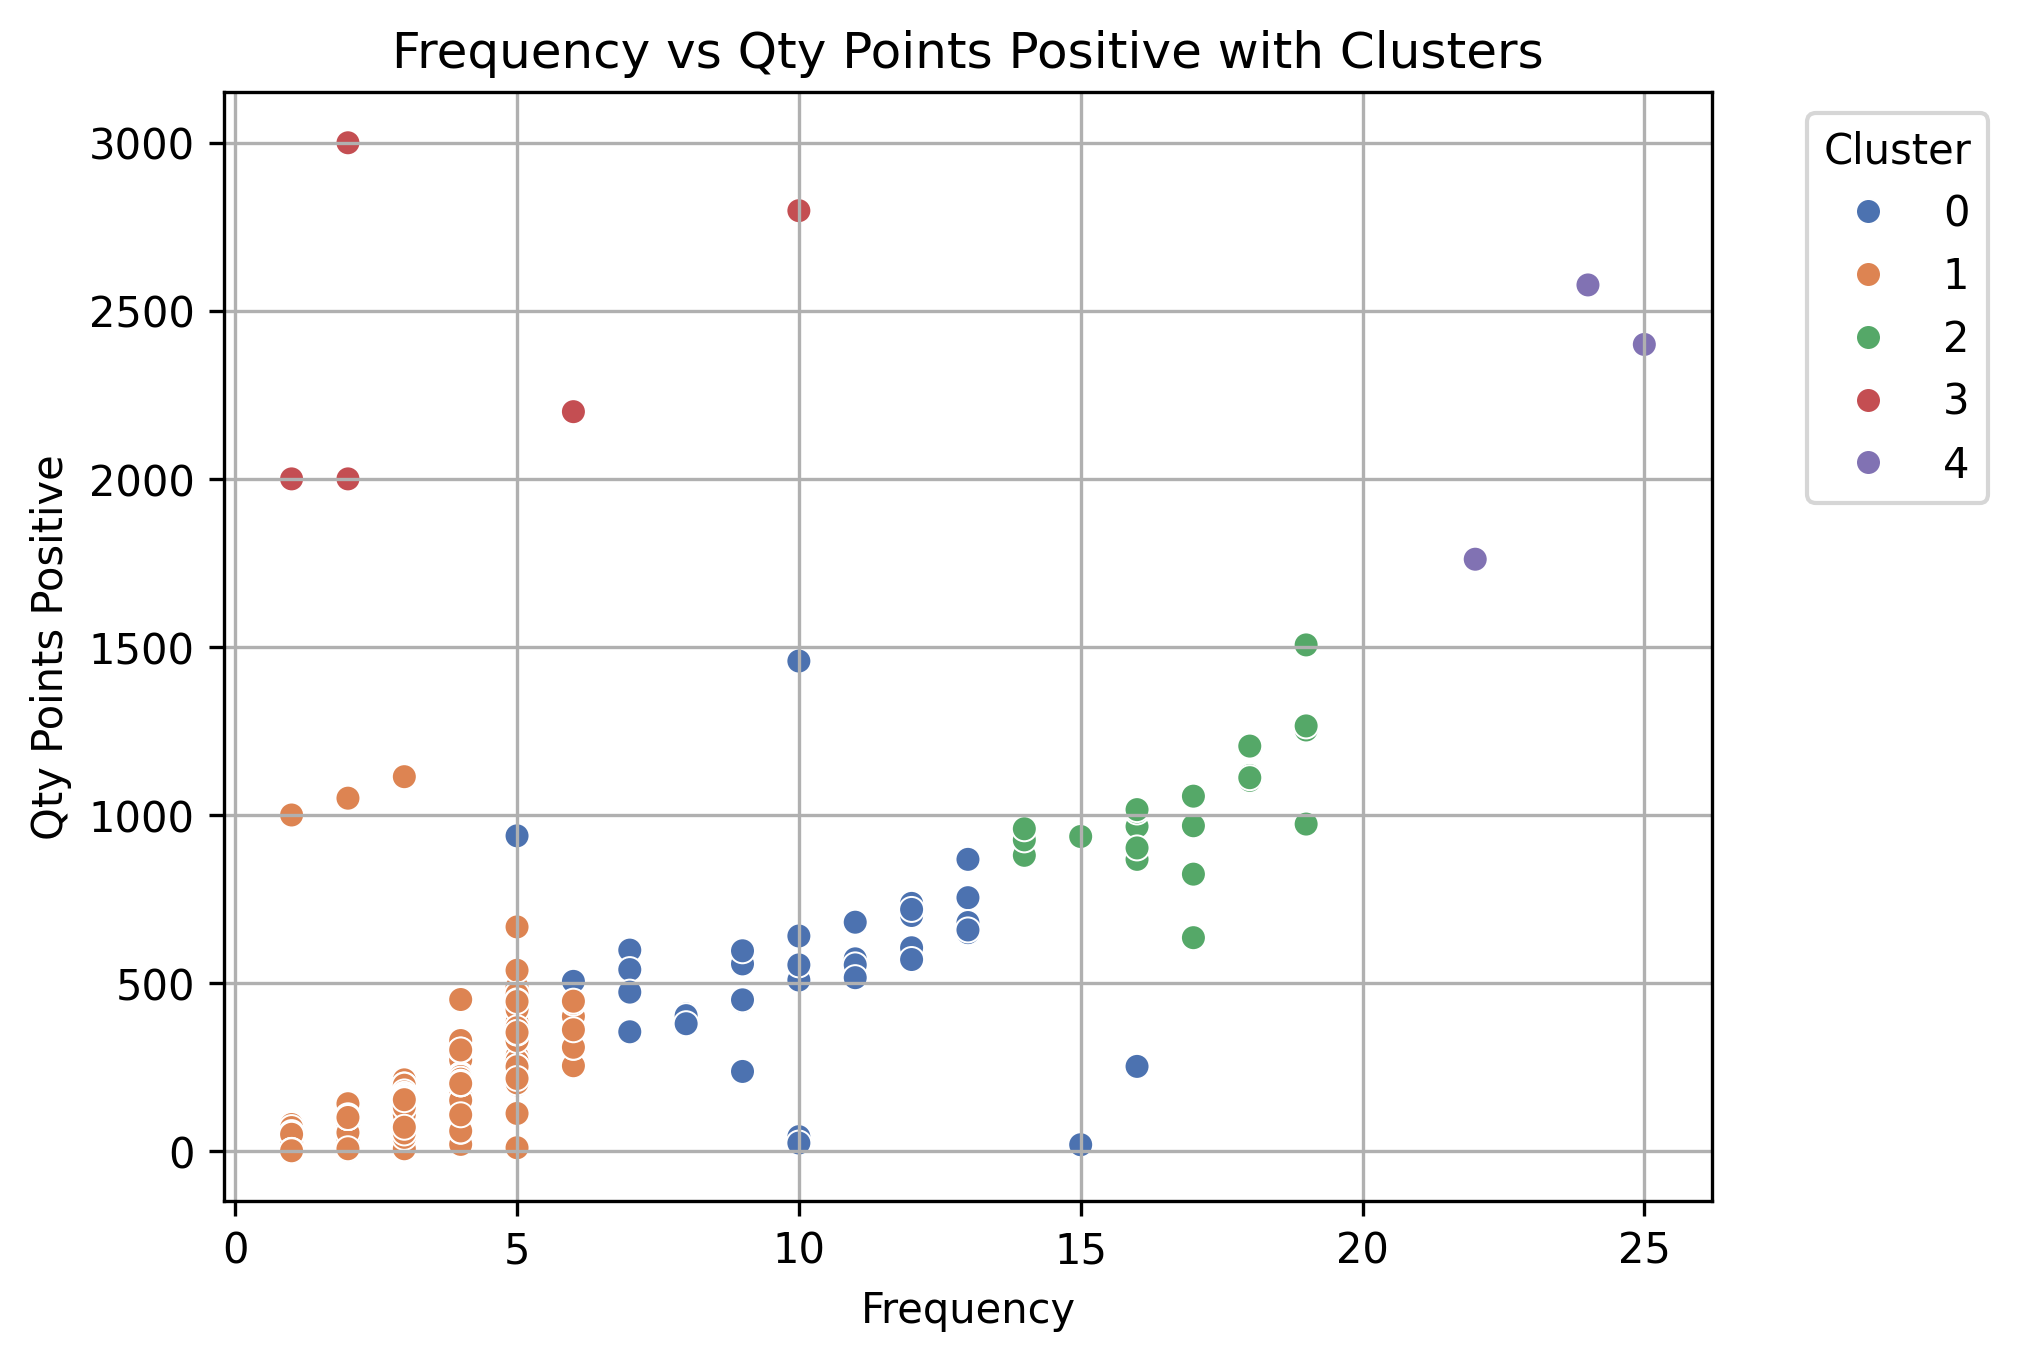
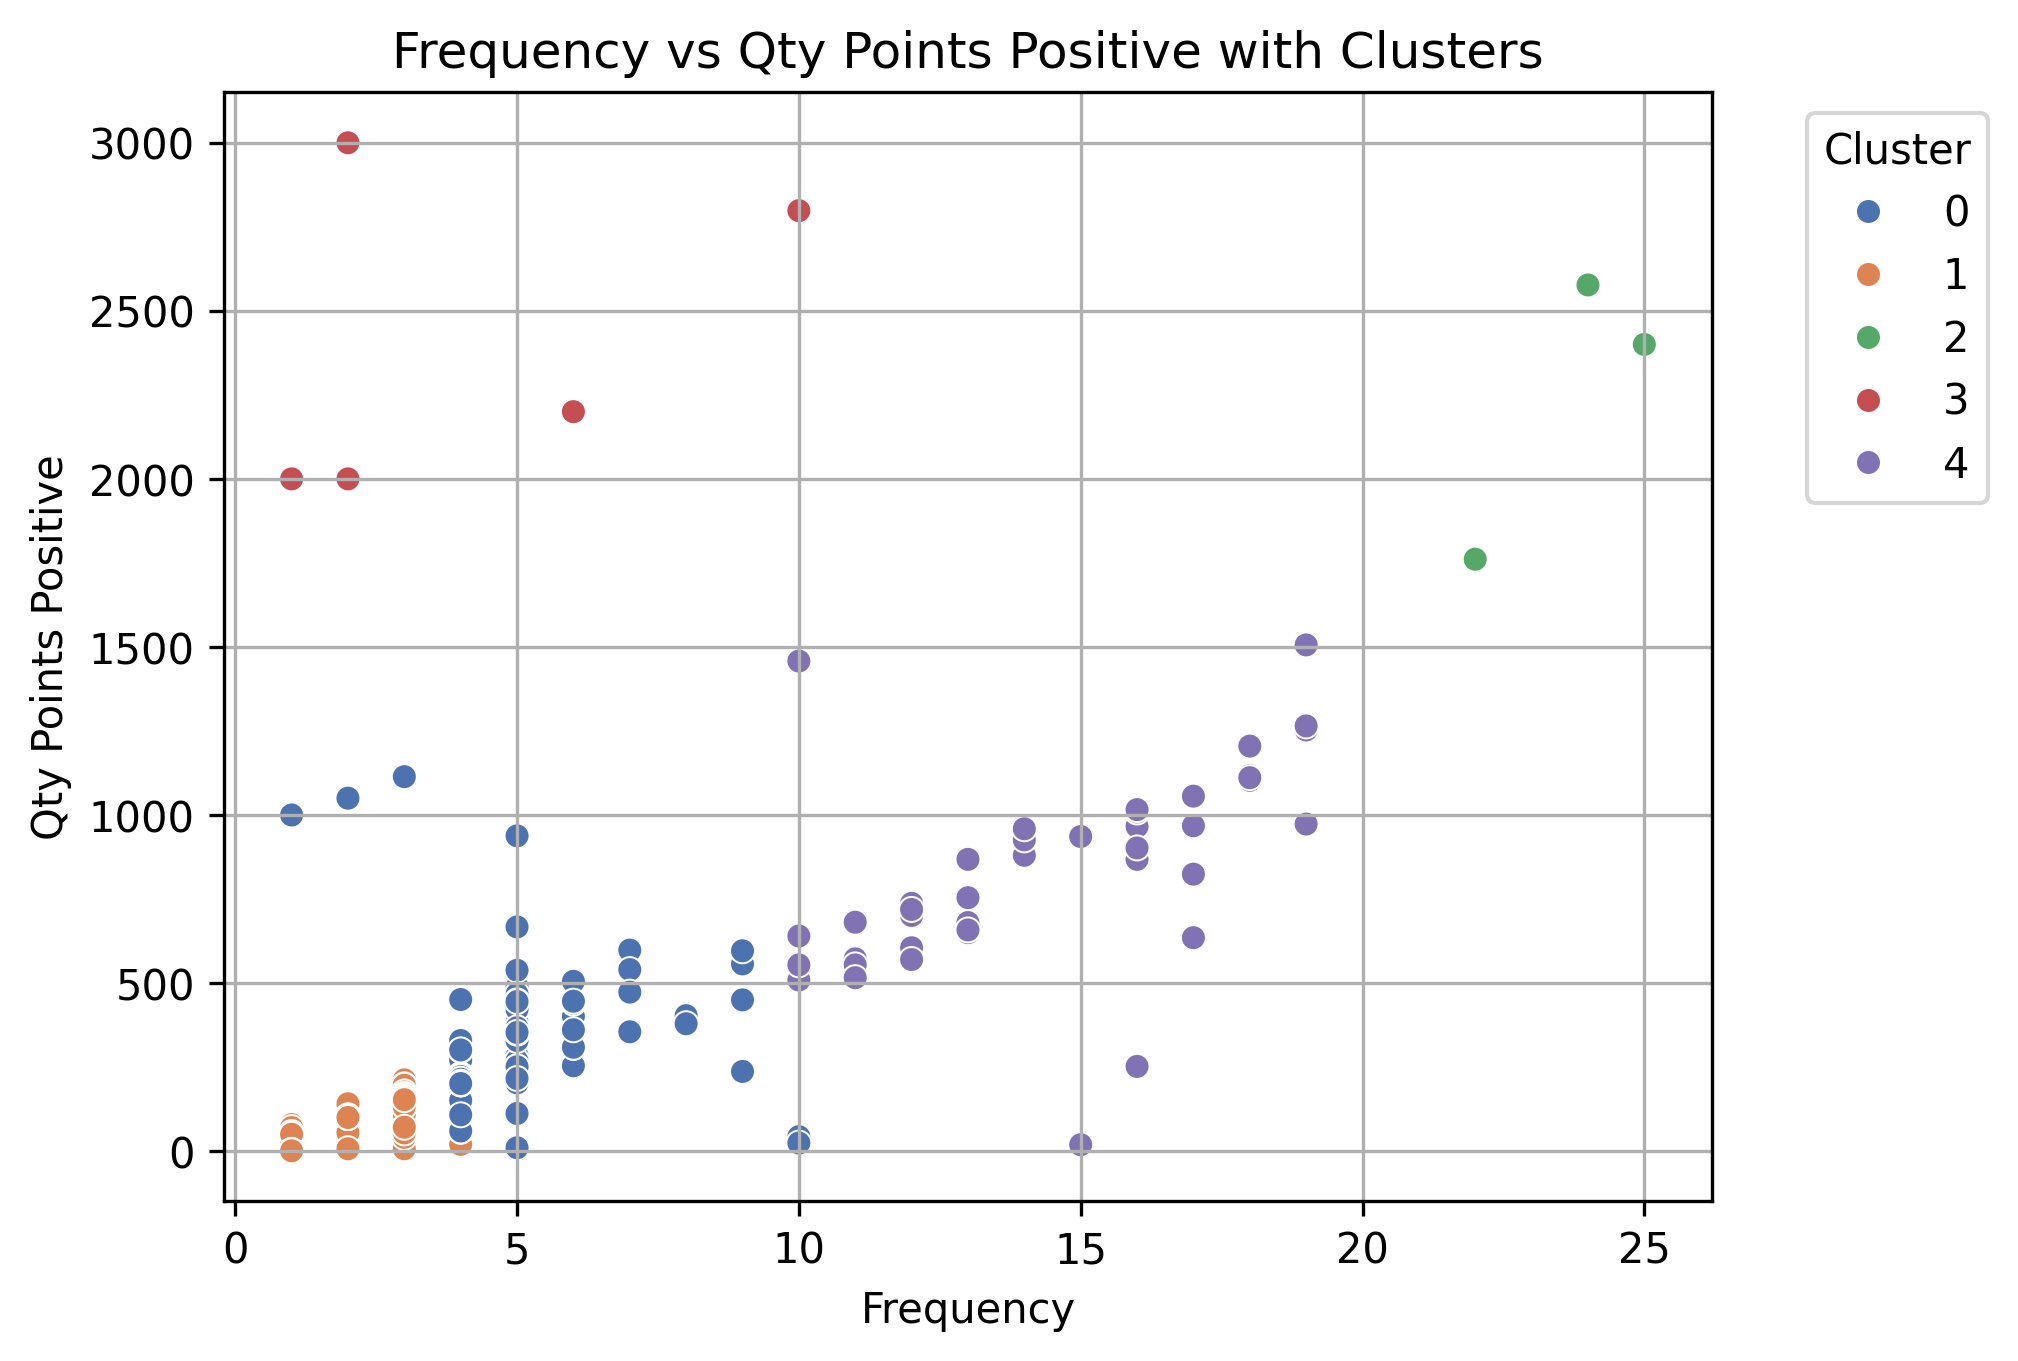
feat: Frequency and Value with Segments creation

diff --git a/src/analytics/frequency_value.py b/src/analytics/frequency_value.py
@@ -76,7 +76,7 @@ X = MinMax.fit_transform(df[['Frequency', 'QtyPointsPositive']])
 
 # %%
 # Clustering
-kmeans = cluster.KMeans(n_clusters=5, random_state=21, max_iter=1000)
+kmeans = cluster.KMeans(n_clusters=5, random_state=42, max_iter=1000)
 kmeans.fit(X)
 
 df['Cluster'] = kmeans.labels_
@@ -93,13 +93,35 @@ plt.title('Frequency vs Qty Points Positive with Clusters')
 plt.xlabel('Frequency')
 plt.ylabel('Qty Points Positive')
 plt.legend(title='Cluster', bbox_to_anchor=(1.05, 1), loc='upper left')
+
+plt.hlines(y=1500, xmin=0, xmax=25, colors='black', linestyles='dashed')
+plt.hlines(y=750, xmin=0, xmax=25, colors='black', linestyles='dashed')
+
+plt.vlines(x=4, ymin=0, ymax=750, colors='black', linestyles='dashed')
+plt.vlines(x=10, ymin=0, ymax=3000, colors='black', linestyles='dashed')
+
 plt.grid(True)
 
 # Save figure before showing
-plt.savefig(os.path.join(data_img_path, 'Frequency_Value_Clusters.png'), dpi=300, bbox_inches='tight')
+plt.savefig(os.path.join(data_img_path, 'Frequency_Value_Clusters_segmented.png'), dpi=300, bbox_inches='tight')
 
 plt.show()
 
 # %%
+# Plot with Segment
+sns.scatterplot(data=df, x='Frequency', y='QtyPointsPositive', hue='Segment', palette='deep')
+plt.title('Frequency vs Qty Points Positive with Segment')
+plt.xlabel('Frequency')
+plt.ylabel('Qty Points Positive')
+plt.legend(title='Segment', bbox_to_anchor=(1.05, 1), loc='upper left')
+
+plt.grid(True)
+
+# Save figure before showing
+plt.savefig(os.path.join(data_img_path, 'Frequency_Value_Segments.png'), dpi=300, bbox_inches='tight')
+
+plt.show()
 
 
+
+# %%

diff --git a/README.md b/README.md
@@ -137,5 +137,63 @@ For the logic of the analysis, let's only consider positive points, as we want t
 According to the business, they know this is an error, when other followers made a negative transaction, that same amount was given in absolute to another follower. And always the same follower.
 The best course of action here is remove this user from our analysis as we knoe it was a bug in Teo's point system.</i>
 
+<br>
+
+After removing that one outlier (bug), now we can see the real dispersion of users and their positive points.
+
+<img src="img/Frequency_Value_noOutlier.png" style='height: 70%; width: 70%; object-fit: contain'>
+
+
+## Clustering
+
+In order to run a cluster we **need** to standardize our data first.
+A simple MinMax would be good to put both variables in the same scale.
+Then we can use Non-Hierarchical clustering method (Kmeans) to segment out users.
+
+<img src="img/Frequency_Value_Clusters.png" style='height: 70%; width: 70%; object-fit: contain'>
+
+🗨<b>Notes:</b> \
+<i>Each random_state (seed) hyperparameter will generate a different cluster grouping.
+It is up to you to create the segmentation you can explain to the business.
+You can use the cluster output to configure your own segmentation, this way you can explain and create the rules easily without relying on running clusters on new databases.</i>
+
+
+
+### Segmentation Rules
+
+Based on the conversation with the business, and what makes sense to this project, we decided to create some segment rules using the cluster as a baseline point.
+The idea here is to identify Teo's followers' behavior and see how can an action can be implemented to retain more followers and to keep them engaged.
+We will use this rules in out SQL code.
+
+<img src="img/Frequency_Value_Clusters_segmented.png" style='height: 70%; width: 70%; object-fit: contain'>
+
+🗨<b>Notes:</b> \
+<i>It is a good practice to not overdo the number of segments here.
+Remember that this segments will work together with the life cycle groups (7) we have created.
+So, if in this segmentation part we have another 7 groups, in total we have 49 combinations possible.
+It seems too many groups for later on, Teo create a retention program of some sort.</i>
+
+
+<br>
+
+We have now created segment rules on SQL in this order:
+
+| Segment Name | Segment Rule |
+| ------------ | ------------ |
+| Hyper | Frequency > 10 & QtyPointsPositive ≥ 1500 |
+| Efficient | Frequency > 10 & QtyPointsPositive ≥ 1500 |
+| Undecided | Frequency ≤ 10 & QtyPointsPositive ≥ 750 |
+| Hardworking | Frequency > 10 & QtyPointsPositive ≥ 750 |
+| Lurker | Frequency < 5 |
+| Lazy | Frequency ≤ 10 |
+| Potential | Frequency > 10 |
+
+
+<img src="img/Frequency_Value_Segments.png" style='height: 70%; width: 70%; object-fit: contain'>
+
+🗨<b>Notes:</b> \
+<i>And now we have our segments hard coded in SQL.</i>
+
+
 
 
